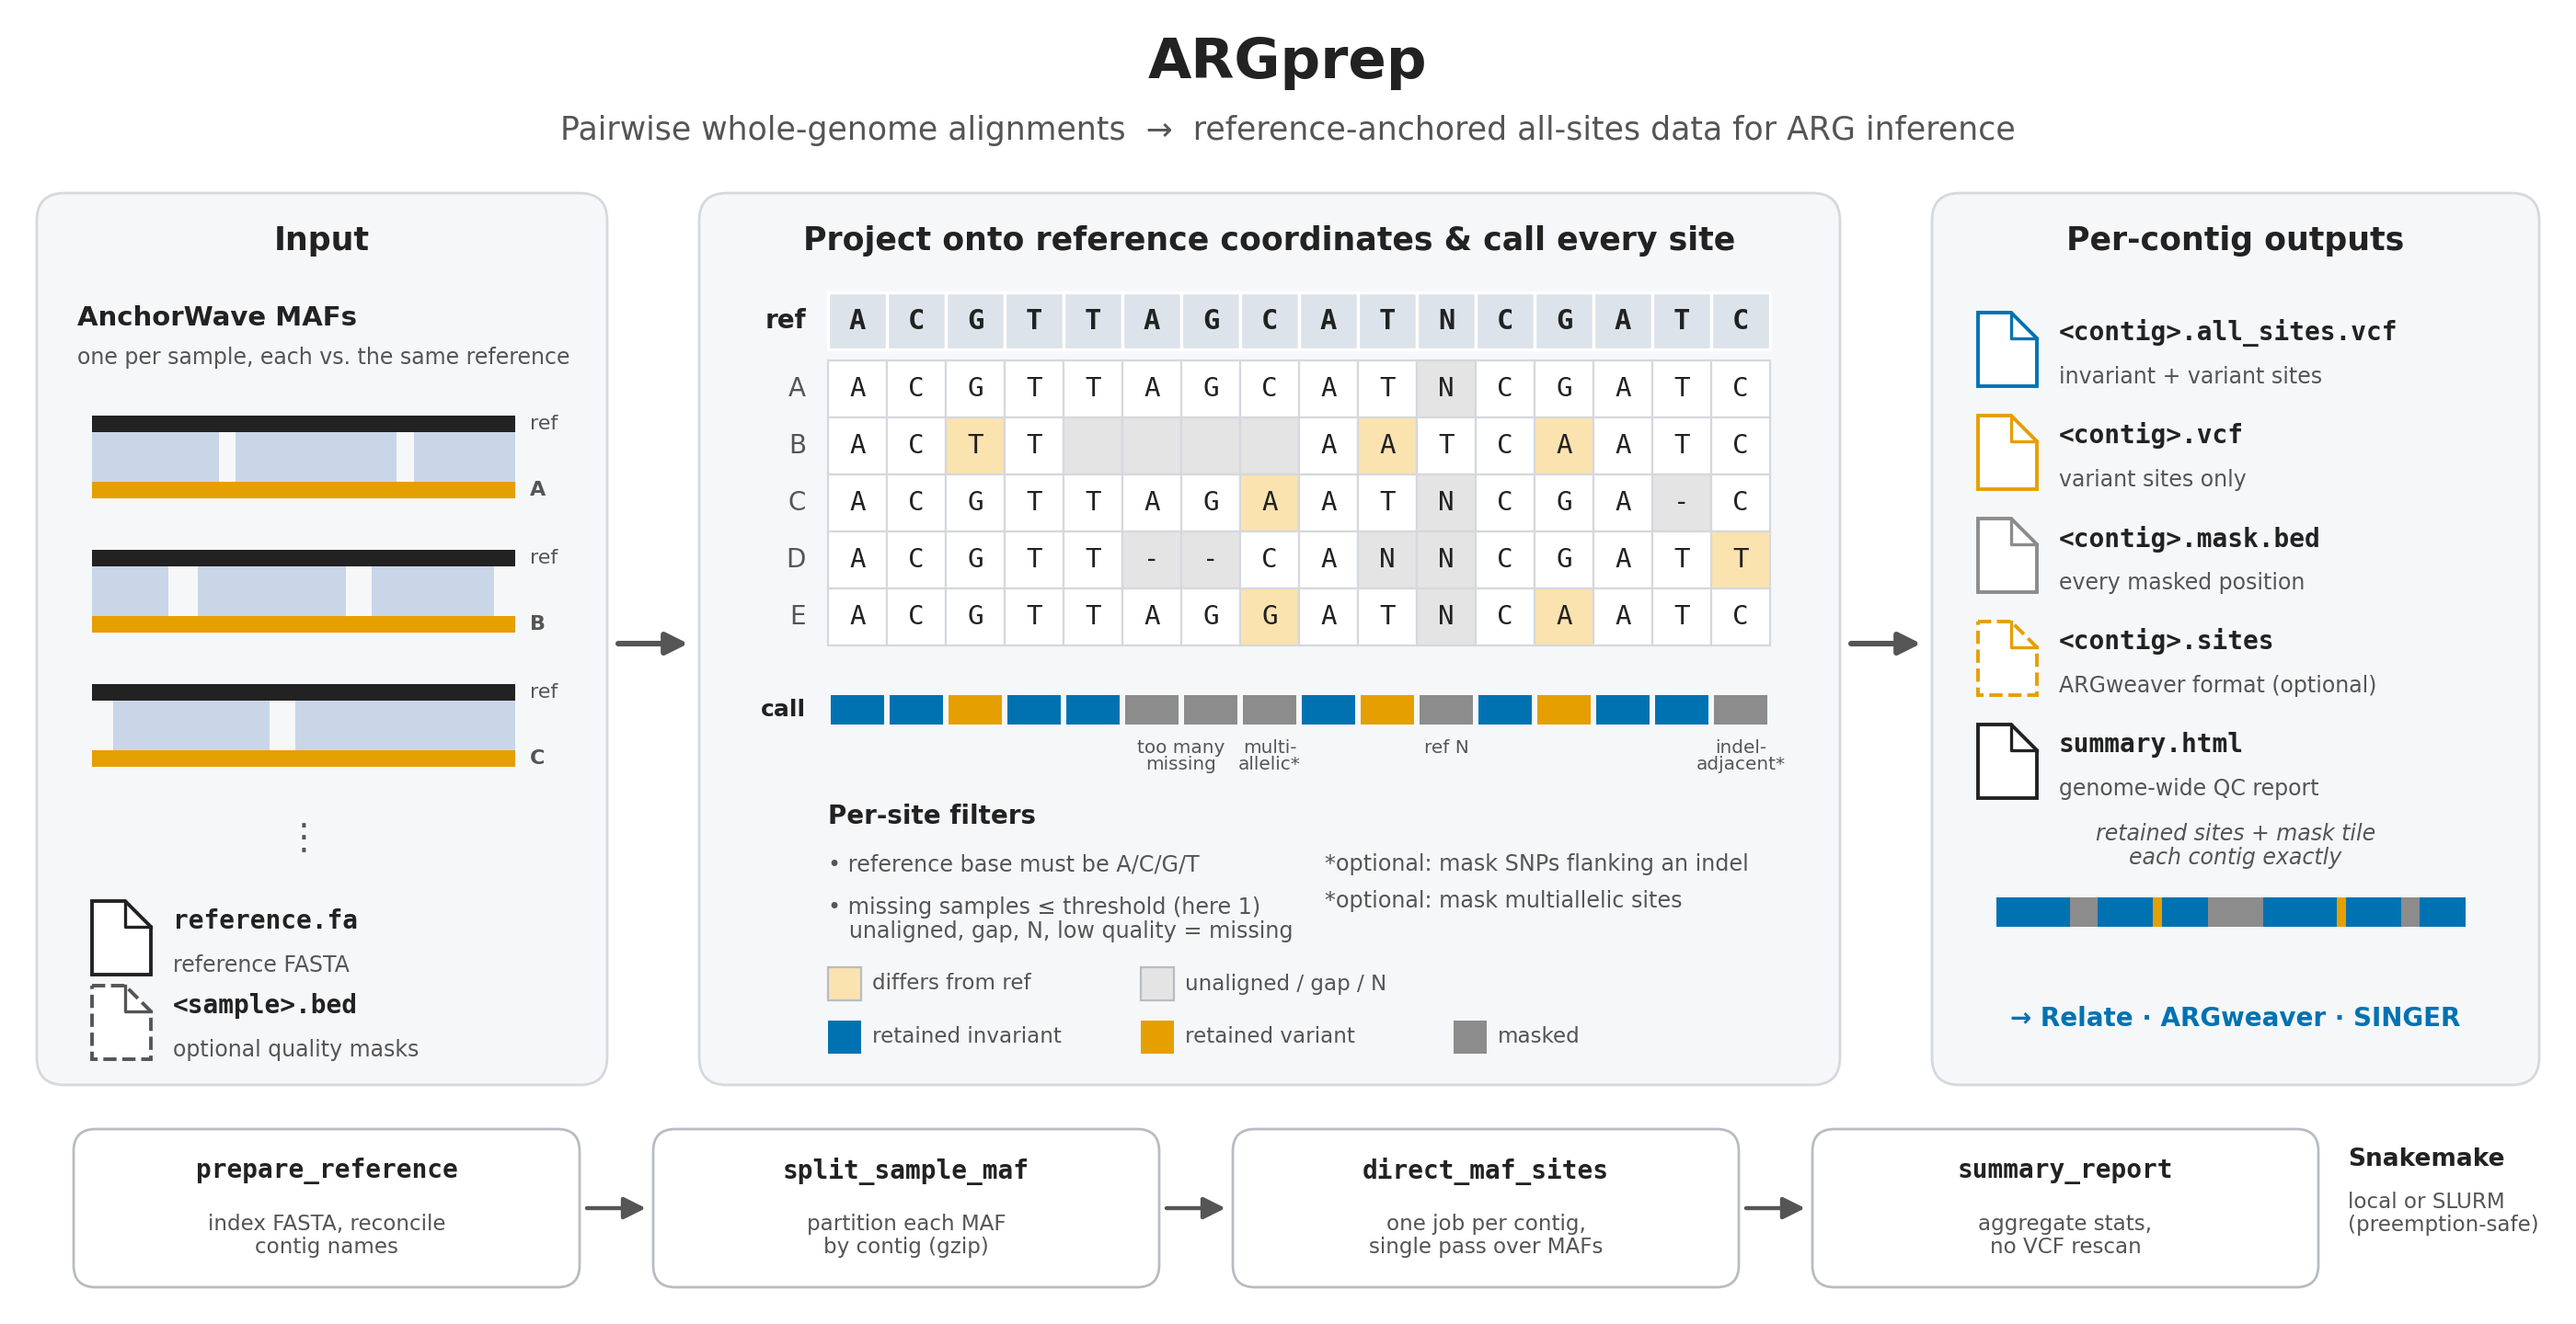
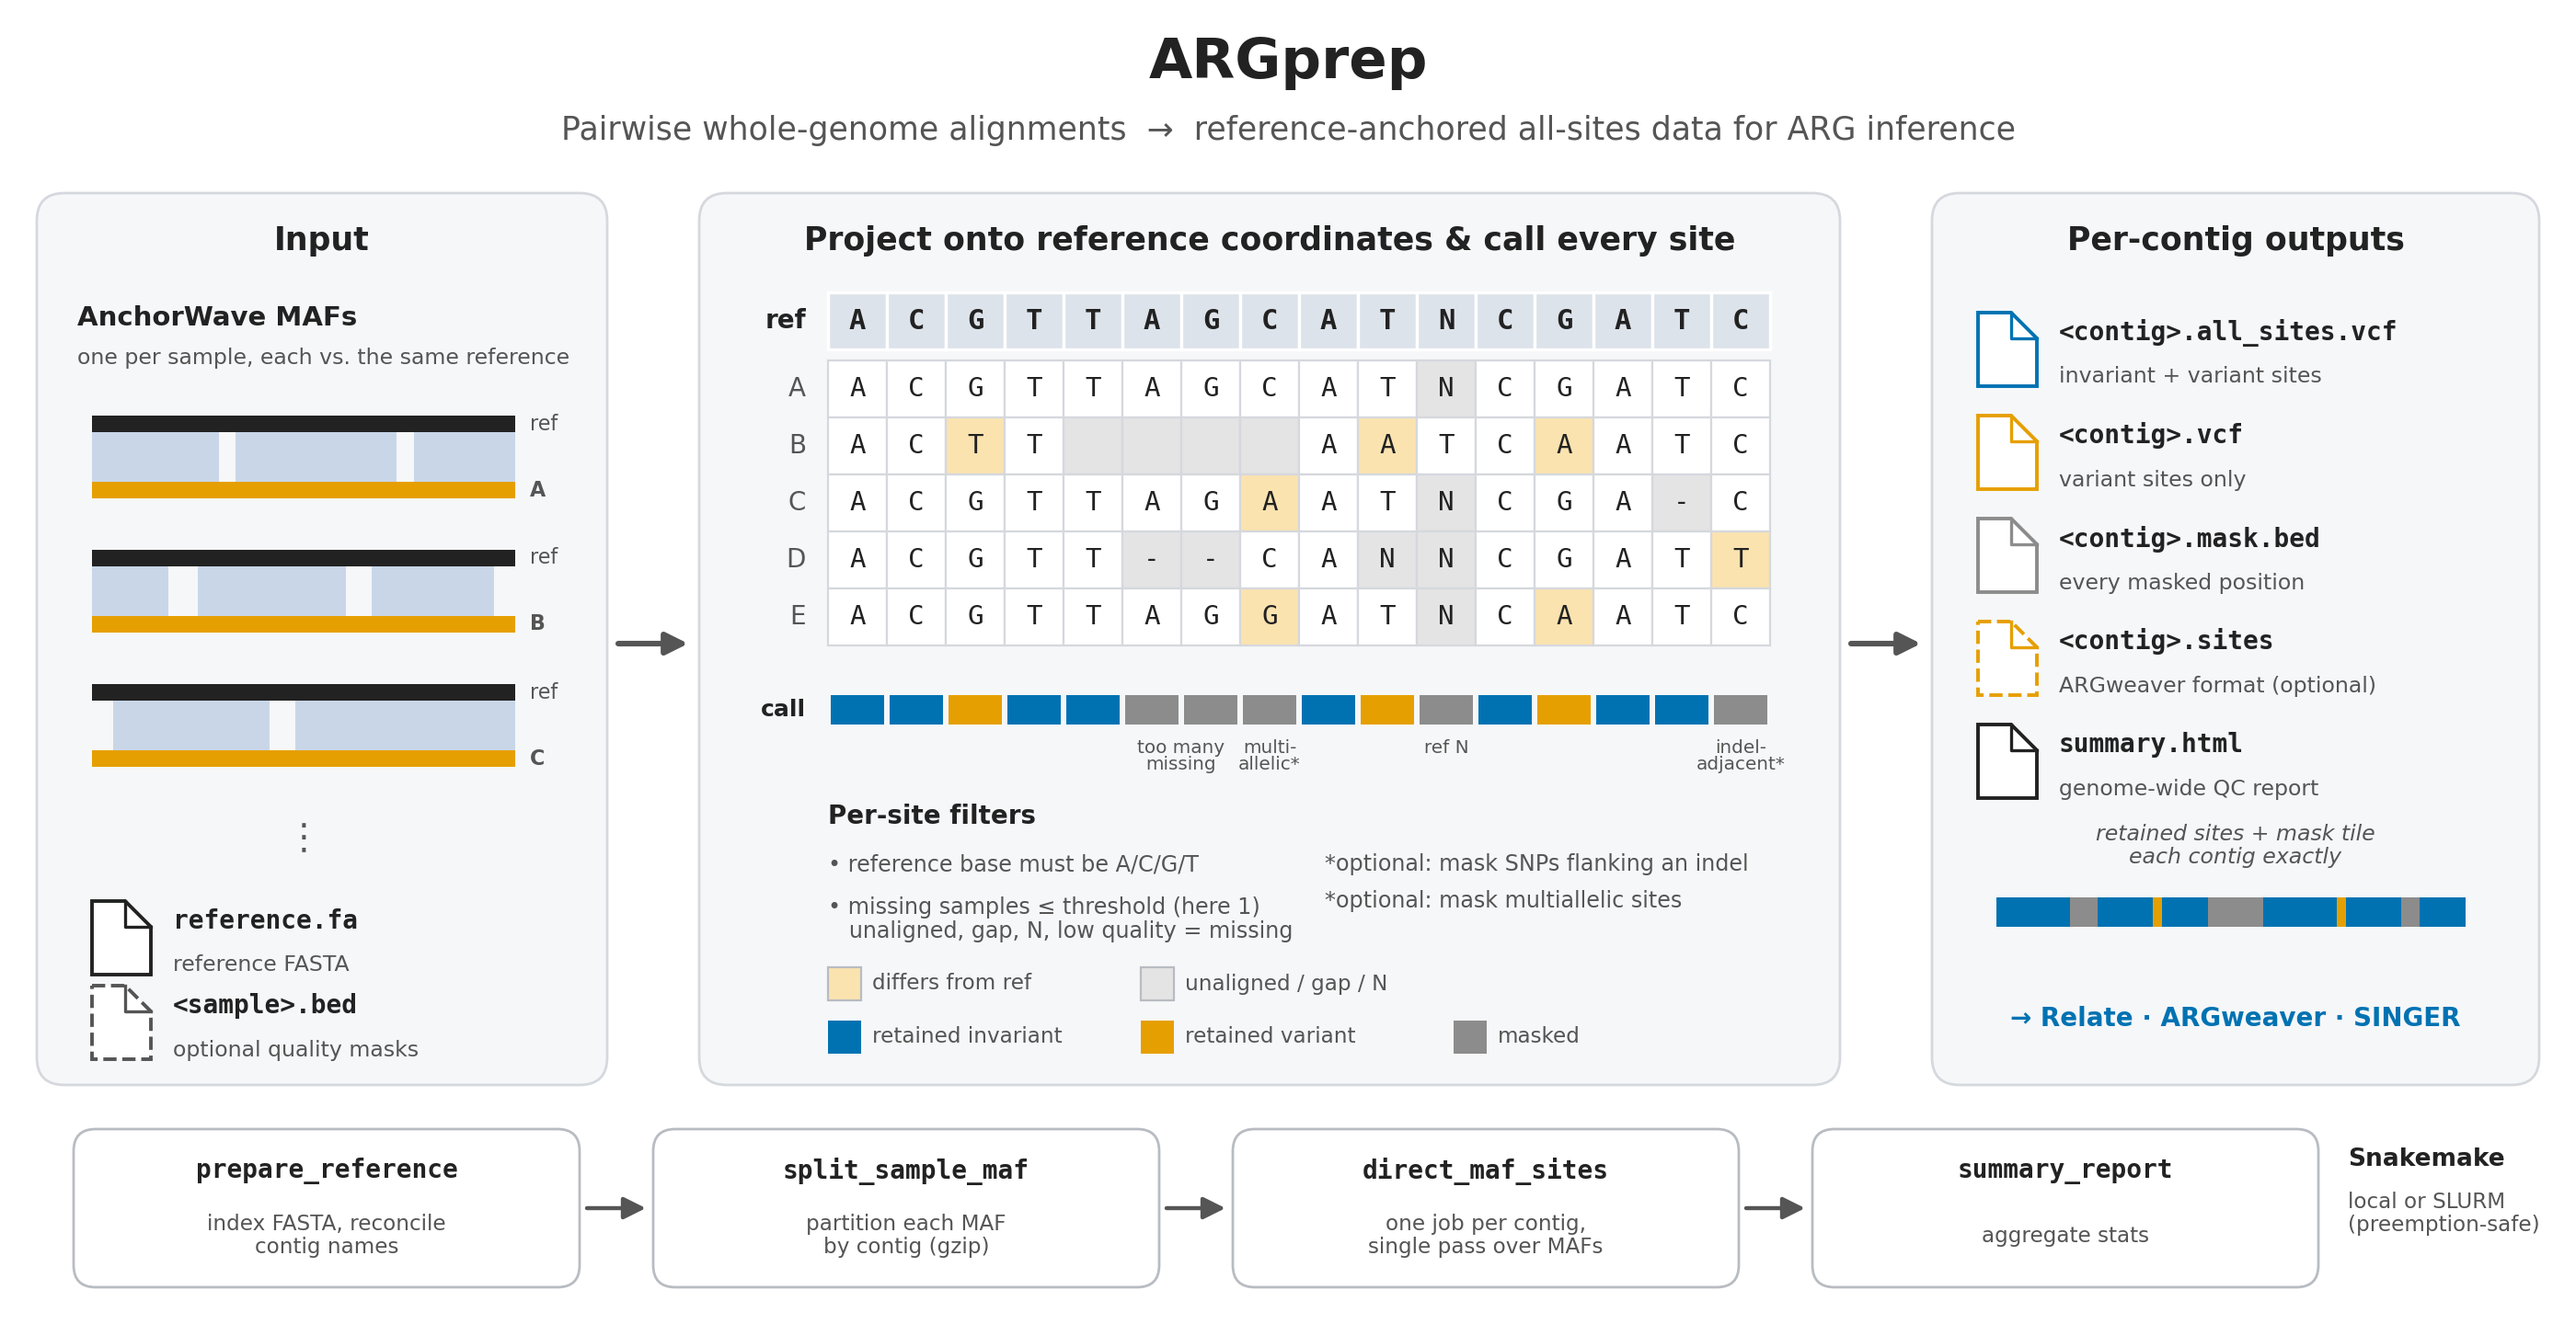
Drop "no VCF rescan" caption from the graphical abstract

diff --git a/docs/graphical_abstract.py b/docs/graphical_abstract.py
@@ -212,7 +212,7 @@ steps = [
     ("prepare_reference", "index FASTA, reconcile\ncontig names"),
     ("split_sample_maf", "partition each MAF\nby contig (gzip)"),
     ("direct_maf_sites", "one job per contig,\nsingle pass over MAFs"),
-    ("summary_report", "aggregate stats,\nno VCF rescan"),
+    ("summary_report", "aggregate stats"),
 ]
 bw, gap, bx0, by = 27.5, 4.0, 4.0, 2.0
 for k, (name, sub) in enumerate(steps):
